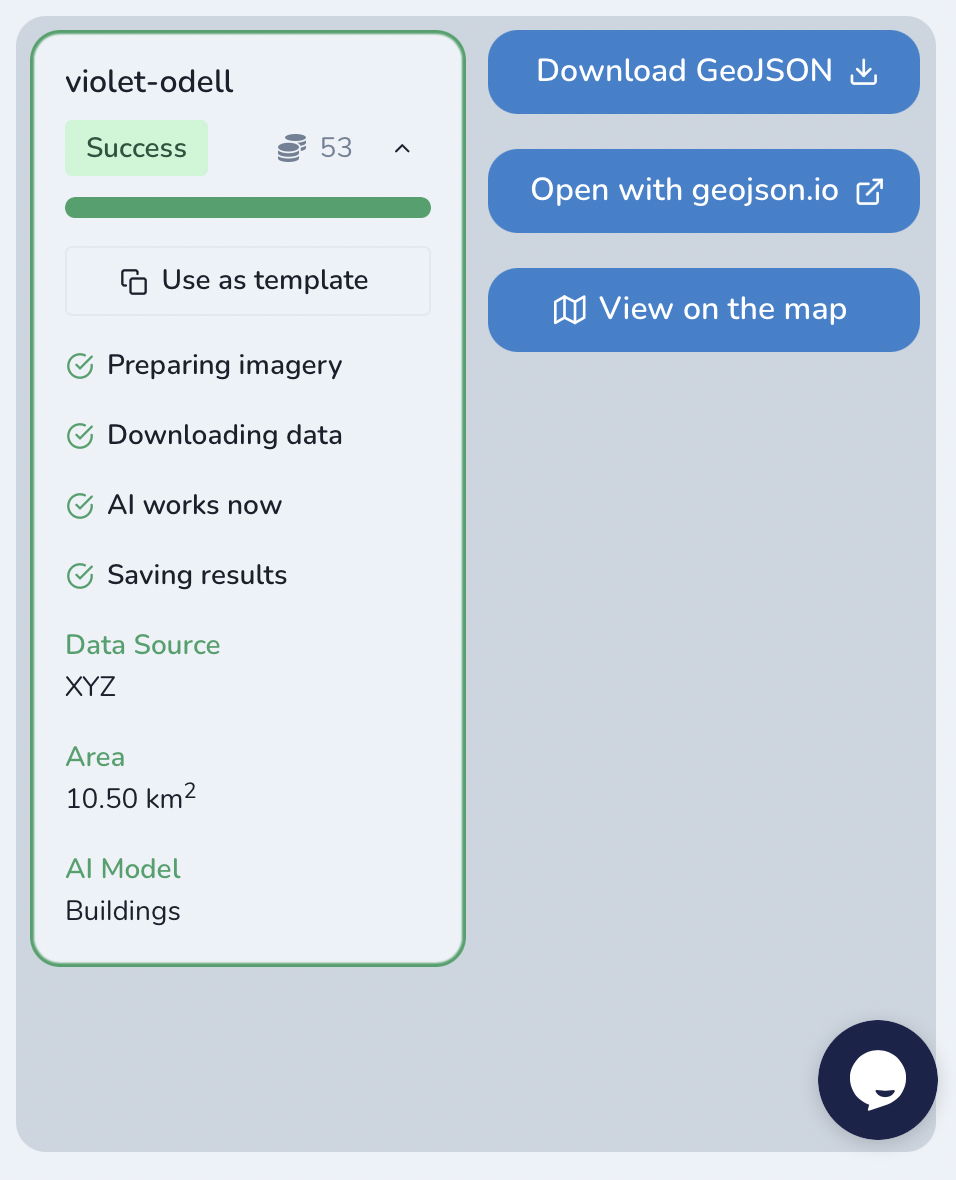
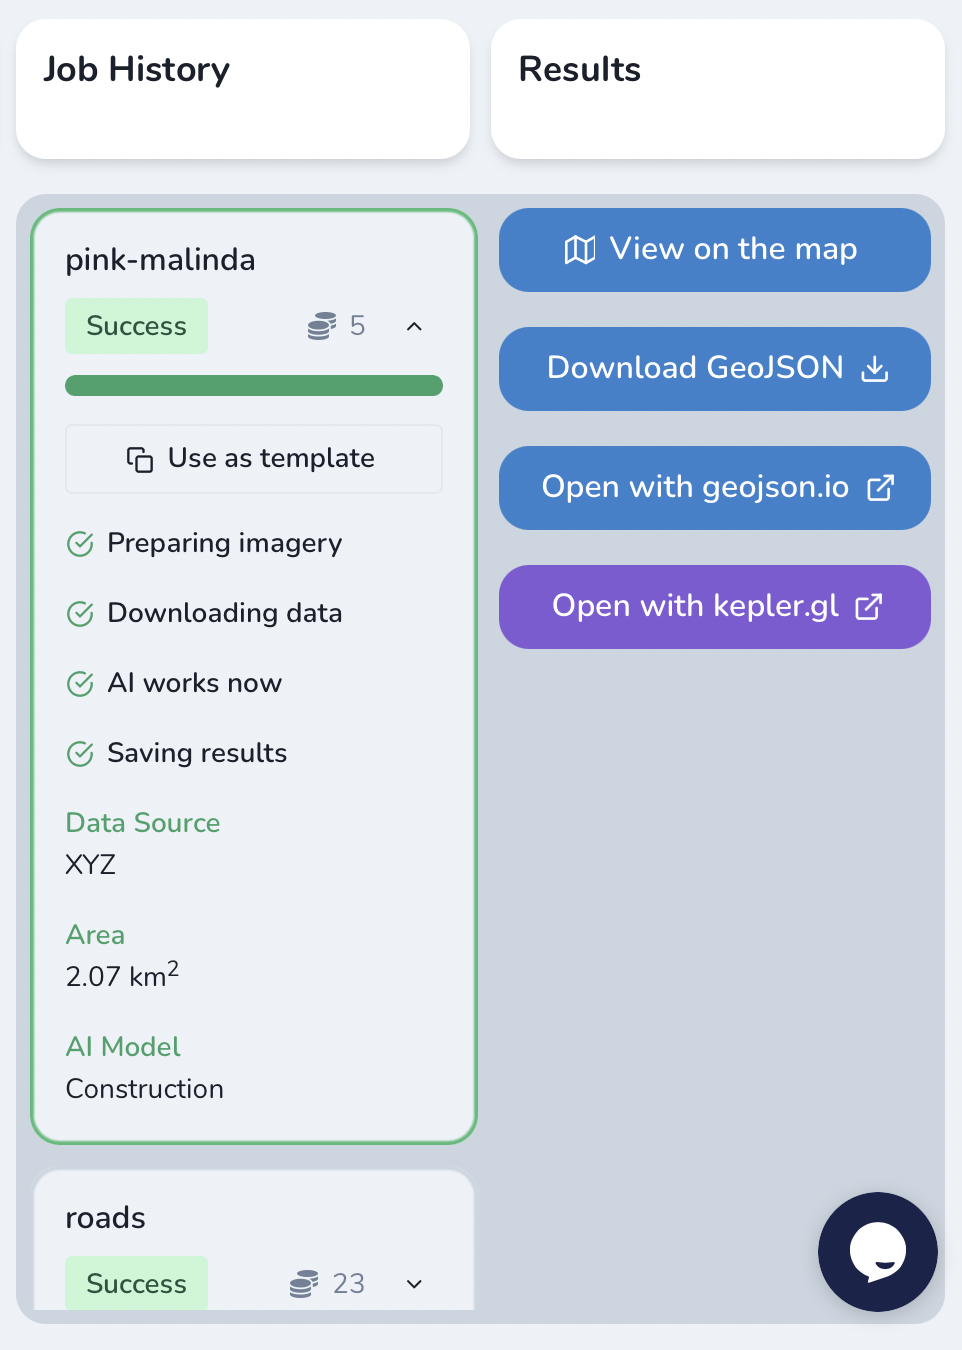
Add about kepler.gl

diff --git a/docs_userguides/get_started.rst b/docs_userguides/get_started.rst
@@ -83,6 +83,12 @@ Options for viewing the processing results are:
    :align: center
    :width: 15cm
 
+4. "Open with kepler.gl" - view the results using web tool which is open-sourced by Uber. It is a simple but powerful tool for data scientists to explore and analyse geospatial datasets.
+
+.. figure:: _static/kepler_gl.png
+   :alt: Preview map
+   :align: center
+   :width: 15cm
 
 Working with API
 ^^^^^^^^^^^^^^^^
